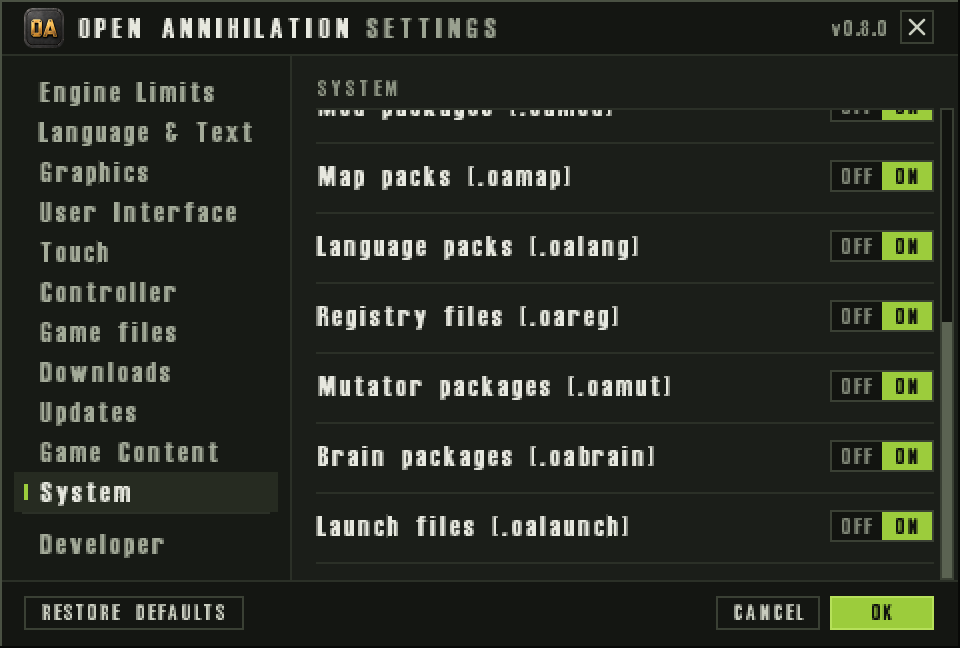
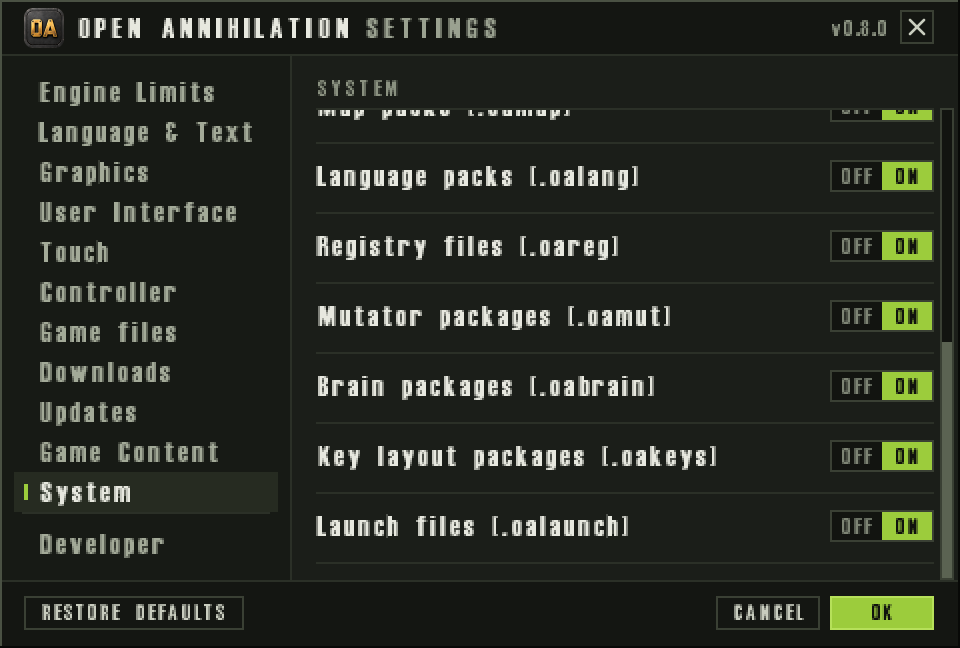
(docs) Show the Key layout packages switch in the manuals and System pictures

diff --git a/docs/settings.md b/docs/settings.md
@@ -906,7 +906,7 @@ of the game's file types this copy opens.
   menu. **Cancel** leaves it as it was. During a game the row is locked
   and says "Choose from the main menu." The welcome itself is
   [the first-run setup](first-run.md).
-- **File Type Registration**, on Windows, Linux and macOS. Seven switches,
+- **File Type Registration**, on Windows, Linux and macOS. Eight switches,
   all On at first:
   - **Mod packages (.oamod)**
   - **Map packs (.oamap)**
@@ -914,11 +914,12 @@ of the game's file types this copy opens.
   - **Registry files (.oareg)**
   - **Mutator packages (.oamut)**
   - **Brain packages (.oabrain)**
+  - **Key layout packages (.oakeys)**
   - **Launch files (.oalaunch)**: a launch file opened from the file
     manager starts the game in its battle room
     ([Opening a launch file](command-line.md#opening-a-launch-file))
 
-  ![The end of the System section: File Type Registration with its line, then the Mod packages, Map packs, Language packs, Registry files, Mutator packages, Brain packages and Launch files switches, each On.](images/settings/system-2.png)
+  ![The end of the System section: File Type Registration with its line, then the Mod packages, Map packs, Language packs, Registry files, Mutator packages, Brain packages, Key layout packages and Launch files switches, each On.](images/settings/system-2.png)
 
   The hint says "Open these files with the game from your file manager."
   **OK** applies a switch you moved, at once. **Cancel** leaves every
@@ -927,7 +928,7 @@ of the game's file types this copy opens.
   the game does not put a type back.
   Each switch is kept as `on` or `off` under
   `open-annihilation.file-types.` and its extension (`.oamod`, `.oamap`,
-  `.oalang`, `.oareg`, `.oamut`, `.oabrain`, `.oalaunch`). A missing key, or any text other than
+  `.oalang`, `.oareg`, `.oamut`, `.oabrain`, `.oakeys`, `.oalaunch`). A missing key, or any text other than
   `off`, leaves the type on. Each switch acts on its own type alone: moving
   one never registers, withdraws or changes the opener of another.
 
@@ -947,7 +948,7 @@ of the game's file types this copy opens.
   On a Mac, a switch that is on means Open Annihilation is the program
   Finder uses to open that type. The switch shows that choice as it is
   now, not only what was stored. Off hands the type back to the program
-  that opens a zip archive (the five packages, usually Archive Utility)
+  that opens a zip archive (the six packages, usually Archive Utility)
   or plain text (a registry file or a launch file). The app keeps the type
   and its icon either way; only the program that opens it changes. If the
   system refuses, the log says so and the switch shows the choice the
@@ -960,7 +961,7 @@ of the game's file types this copy opens.
   System opens in this run, and it goes away when every switch matches
   what you asked. [macOS](installation/macos.md) says the same for opening
   a file.
-- **File types**, on iPhone and iPad, in place of the seven switches. The
+- **File types**, on iPhone and iPad, in place of the eight switches. The
   system takes the types from the app, and there is no way to choose a
   default opener, so there is no switch. The hint is one sentence.
 

diff --git a/docs/installation/windows.md b/docs/installation/windows.md
@@ -153,9 +153,10 @@ bottom right of the main menu opens. See [Settings](../settings.md), and
 Each start registers this copy of the game, for your Windows account, as
 the opener of the file types left on in [Settings › System](../settings.md#system):
 mod packages (`.oamod`), map packs (`.oamap`), language packs (`.oalang`),
-mutator packages (`.oamut`), brain packages (`.oabrain`), registry files
+mutator packages (`.oamut`), brain packages (`.oabrain`), key layout packages
+(`.oakeys`), registry files
 (`.oareg`) and launch files
-(`.oalaunch`). All seven are on
+(`.oalaunch`). All eight are on
 until you turn one off. Turning one off and pressing OK withdraws that type
 at once; turning one on registers it at once. Neither waits for a restart. The game's icon is
 put on the types it opens. Double-click a `.oamod` file to install the mod
@@ -290,7 +291,7 @@ command, still takes the screenshots and films.
 - The uninstaller also removes the launch file association the installer
   made for everyone. For the Windows account that runs it, it removes the
   game's registration as the opener of `.oamod`, `.oalang`, `.oamap`,
-  `.oamut`, `.oabrain`, `.oareg` and `.oalaunch` files while that registration opens them with
+  `.oamut`, `.oabrain`, `.oakeys`, `.oareg` and `.oalaunch` files while that registration opens them with
   the installed `open-annihilation.exe`, and the empty (Default) of
   `HKEY_CURRENT_USER\Software\Classes\.oalaunch` that hid the association
   while Launch files was off. A type that a copy you unzipped elsewhere
@@ -306,19 +307,21 @@ command, still takes the screenshots and films.
   Open Annihilation from another copy, one unzipped or installed again:
   that start registers the copy that runs in its place, withdraws the types
   turned off in its settings, and removes the empty (Default) of
-  `.oalaunch`. Or delete the fourteen keys below in that account.
+  `.oalaunch`. Or delete the sixteen keys below in that account.
 - **To remove a zip copy:** delete that folder. The Open Annihilation
   folder in Documents is separate and stays until you delete it yourself.
 - **To remove your settings and logs too,** delete the Local AppData folder
   above. To make Windows forget a copy you unzipped as the opener of
-  `.oamod`, `.oalang`, `.oamap`, `.oamut`, `.oabrain`, `.oareg` and `.oalaunch` files, delete
-  these fourteen keys with the Registry Editor:
+  `.oamod`, `.oalang`, `.oamap`, `.oamut`, `.oabrain`, `.oakeys`, `.oareg` and `.oalaunch` files, delete
+  these sixteen keys with the Registry Editor:
   `HKEY_CURRENT_USER\Software\Classes\.oamod`,
   `HKEY_CURRENT_USER\Software\Classes\OpenAnnihilation.Mod`,
   `HKEY_CURRENT_USER\Software\Classes\.oamut`,
   `HKEY_CURRENT_USER\Software\Classes\OpenAnnihilation.Mutator`,
   `HKEY_CURRENT_USER\Software\Classes\.oabrain`,
   `HKEY_CURRENT_USER\Software\Classes\OpenAnnihilation.Brain`,
+  `HKEY_CURRENT_USER\Software\Classes\.oakeys`,
+  `HKEY_CURRENT_USER\Software\Classes\OpenAnnihilation.KeyLayout`,
   `HKEY_CURRENT_USER\Software\Classes\.oalang`,
   `HKEY_CURRENT_USER\Software\Classes\OpenAnnihilation.Language`,
   `HKEY_CURRENT_USER\Software\Classes\.oamap`,

diff --git a/docs/installation/linux.md b/docs/installation/linux.md
@@ -146,11 +146,12 @@ bottom right of the main menu opens. See [Settings](../settings.md), and
 Each start on a desktop registers this copy of the game, for your account,
 as the opener of the file types left on in [Settings › System](../settings.md#system):
 mod packages (`.oamod`), map packs (`.oamap`), language packs (`.oalang`),
-mutator packages (`.oamut`), brain packages (`.oabrain`), registry files
+mutator packages (`.oamut`), brain packages (`.oabrain`), key layout packages
+(`.oakeys`), registry files
 (`.oareg`) and launch files
-(`.oalaunch`). All seven are on
+(`.oalaunch`). All eight are on
 until you turn one off. Turning one off and pressing OK withdraws that type
-at once; turning one on registers it at once. With all seven off, the
+at once; turning one on registers it at once. With all eight off, the
 desktop entries and the MIME package are removed. Neither waits for a restart. The game's icon is put
 on the types it opens. Open a `.oamod` file from the file manager to
 install the mod it holds
@@ -266,14 +267,15 @@ command, still takes the screenshots and films.
   too, delete the two folders above; your saved games, screenshots, films,
   recordings and mods are in the Open Annihilation folder in Documents. To make your
   desktop forget the game as the opener of `.oamod`, `.oalang`, `.oamap`,
-  `.oamut`, `.oabrain`, `.oareg` and `.oalaunch` files, delete
+  `.oamut`, `.oabrain`, `.oakeys`, `.oareg` and `.oalaunch` files, delete
   `~/.local/share/mime/packages/net.coreprime.open-annihilation.xml`,
   `~/.local/share/applications/net.coreprime.open-annihilation.desktop`,
   `~/.local/share/applications/net.coreprime.open-annihilation.launch.desktop`,
-  the eight icon files `apps/net.coreprime.open-annihilation.png`,
+  the nine icon files `apps/net.coreprime.open-annihilation.png`,
   `mimetypes/application-x-oamod.png`, `mimetypes/application-x-oalang.png`,
   `mimetypes/application-x-oamap.png`, `mimetypes/application-x-oamut.png`,
-  `mimetypes/application-x-oabrain.png`, `mimetypes/application-x-oareg.png`
+  `mimetypes/application-x-oabrain.png`, `mimetypes/application-x-oakeys.png`,
+  `mimetypes/application-x-oareg.png`
   and `mimetypes/application-x-oalaunch.png`
   under `~/.local/share/icons/hicolor/256x256`, and the hidden empty
   `.net.coreprime.open-annihilation.updated` files in the `mime`,

diff --git a/docs/automation.md b/docs/automation.md
@@ -203,7 +203,7 @@ centre would land on the line between Off and On.
 | Game Content's buttons | `oa.settings.content-check.check-again`, `oa.settings.content-copy.copy-again`, `oa.settings.content-open.open-folder` | button. The section's entry is `oa.settings.nav.game-content`. While a bundle is being copied, that bundle's row offers Cancel as `oa.settings.<id>.cancel-copy` |
 | Updates' buttons | `oa.settings.update-status.check-now`, `oa.settings.update-status.update` | button. CHECK NOW while the section can check, greyed while a check is running; UPDATE… while a release is offered, in that button's place. Absent while Check for updates is Never. The section's entry is `oa.settings.nav.updates`. The choice is `oa.settings.update-check` (`automatically`, `when-asked`, `never`) |
 | Your files' buttons, on System | `oa.settings.user-folder.saves`, `.screenshots`, `.mods` | button |
-| File Type Registration, on System on Windows, Linux and macOS | `oa.settings.file-type-registration` (the heading); `oa.settings.file-type-oamod`, `oa.settings.file-type-oamap`, `oa.settings.file-type-oalang`, `oa.settings.file-type-oareg`, `oa.settings.file-type-oamut`, `oa.settings.file-type-oabrain`, `oa.settings.file-type-oalaunch` | the heading a label; each switch as a switch |
+| File Type Registration, on System on Windows, Linux and macOS | `oa.settings.file-type-registration` (the heading); `oa.settings.file-type-oamod`, `oa.settings.file-type-oamap`, `oa.settings.file-type-oalang`, `oa.settings.file-type-oareg`, `oa.settings.file-type-oamut`, `oa.settings.file-type-oabrain`, `oa.settings.file-type-oakeys`, `oa.settings.file-type-oalaunch` | the heading a label; each switch as a switch |
 | File types, on System on iOS | `oa.settings.file-types` | label |
 | Language's MORE IN THE LIBRARY… (main menu only) | `oa.settings.more-in-library` | button |
 | Downloads' REGISTRIES IN THE LIBRARY… (main menu only) | `oa.settings.registries-in-library` | button; opens the Library on its Registries tab |

diff --git a/docs/command-line.md b/docs/command-line.md
@@ -80,7 +80,7 @@ On Linux, in a terminal in the game's folder:
 - A word that begins with `-` or `/` and a letter, such as `-c` or `/d`, is
   one of 3.1c's switches ([The 3.1c command line](#the-31c-command-line)).
   Any other word names the language, as in 3.1c: `german`.
-- A `.oamod`, `.oalang`, `.oamap`, `.oamut`, `.oabrain` or `.oareg` file named on
+- A `.oamod`, `.oalang`, `.oamap`, `.oamut`, `.oabrain`, `.oakeys` or `.oareg` file named on
   its own is opened
   as `--open FILE` opens it. A launch file is named with `-c` or `--launch`:
   on its own, its name is just a word of 3.1c's command line, and no launch
@@ -148,7 +148,7 @@ the console it was started from.
 | `--preferences-file PATH` | Reads and writes the preferences in `PATH` instead of the usual file. Your Open Annihilation folder is then the one beside it ([settings](settings.md#where-the-settings-are-kept)). |
 | `--data-dir PATH` | Keeps the data the game unpacks for itself in `PATH`, in place of the system's per-user data folder. |
 | `--log-dir PATH` | Writes this run's log into `PATH`, whatever kind of run it is. What the game prints goes into the log too; only `--status-stdout`'s lines stay on standard output. |
-| `--open FILE` | Opens a `.oamod`, `.oalang`, `.oamap`, `.oamut`, `.oabrain` or `.oareg` file once the main menu shows, as opening it from the desktop does; give it once for each file. |
+| `--open FILE` | Opens a `.oamod`, `.oalang`, `.oamap`, `.oamut`, `.oabrain`, `.oakeys` or `.oareg` file once the main menu shows, as opening it from the desktop does; give it once for each file. |
 | `--install-mod FILE` | The same as `--open FILE`. |
 | `--no-game-files-screen` | With no usable game folder, shows the notice with its look-again button instead of the Game files screen, where a system offers both ([game files](game-files.md)). |
 

diff --git a/docs/installation/macos.md b/docs/installation/macos.md
@@ -92,7 +92,7 @@ Open Annihilation's own settings open with **Cmd+,**, or from
 bottom right of the main menu opens. See [Settings](../settings.md), and
 [the Library](../library.md) for mods, maps and languages to download.
 
-The app declares `.oamod`, `.oalang`, `.oamap`, `.oamut`, `.oabrain`, `.oareg` and
+The app declares `.oamod`, `.oalang`, `.oamap`, `.oamut`, `.oabrain`, `.oakeys`, `.oareg` and
 `.oalaunch` files.
 Double-click a `.oamod` file to install the mod it holds in Open
 Annihilation ([mods](../mods/README.md#installing-a-oamod-file)) while
@@ -102,7 +102,7 @@ Open Annihilation is the program Finder uses for that type, and a
 [Settings › System](../settings.md#system) lists a switch for each type
 under **File Type Registration**. On makes this copy the program Finder
 opens that type with. Off hands it back to the program that opens a zip
-archive (the five packages, usually Archive Utility) or plain text (a
+archive (the six packages, usually Archive Utility) or plain text (a
 registry file or a launch file). The type and its icon stay declared by the app; only the
 program that opens the file changes. The switch shows the choice Finder
 has now. It changes when you move it and press **OK**, and not before. A
